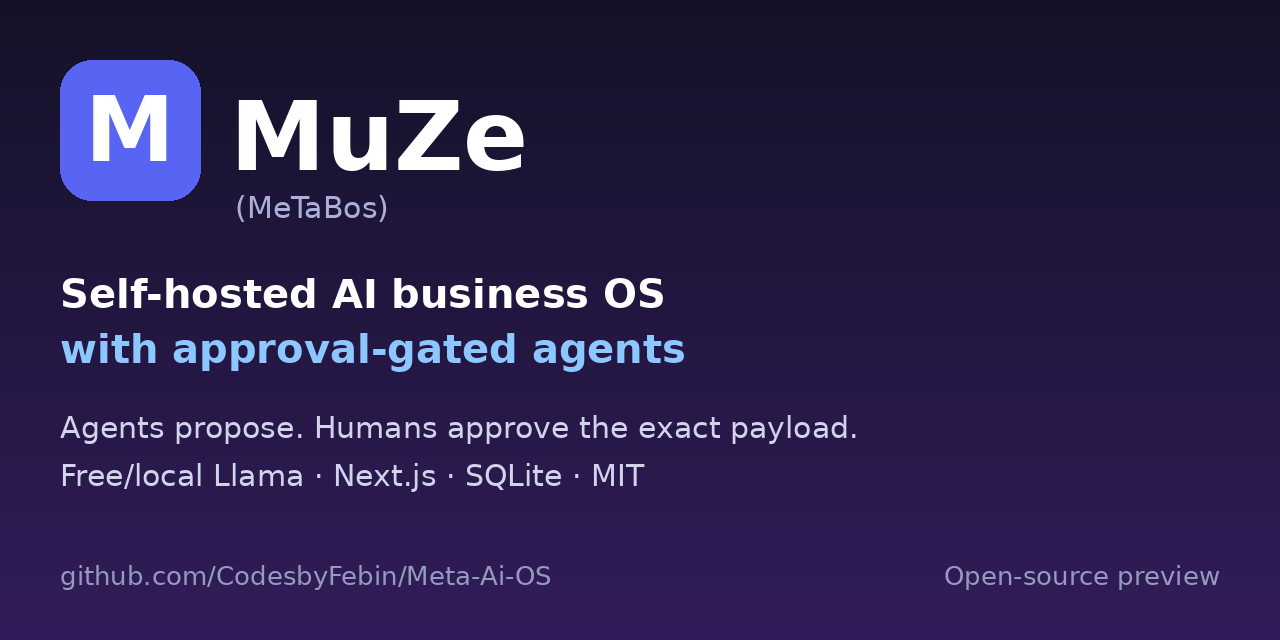
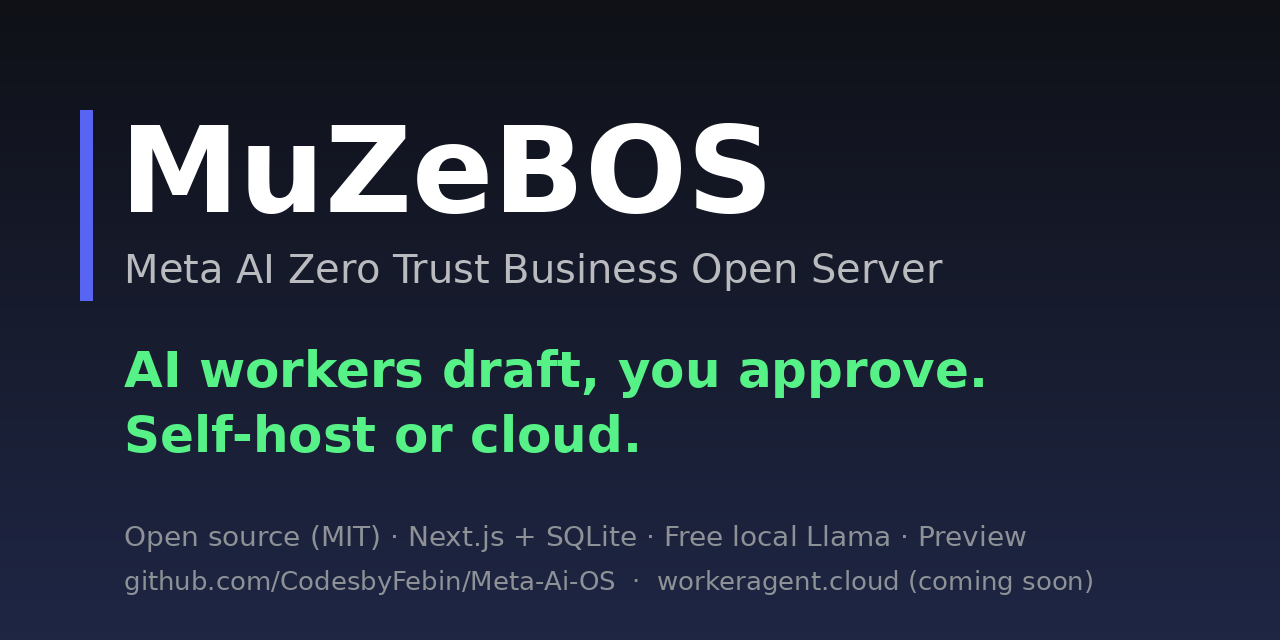
docs: rebrand to MuZeBOS (Meta AI Zero Trust Business Open Server)

Changed region(s): [[0.0312, 0.0938, 0.75, 0.5], [0.0312, 0.5312, 0.7812, 0.7812], [0.0312, 0.8125, 0.9688, 0.9375]]

diff --git a/README.md b/README.md
@@ -1,17 +1,21 @@
-# MuZe (MeTaBos): Open-Source, Self-Hosted AI Business OS with Approval-Gated Agents
+# MuZeBOS — Meta AI Zero Trust Business Open Server
 
-**Self-hosted, open-source AI business OS: one approval-gated workspace for Meta inbox drafts, invoicing, inventory, CRM and local Llama agents.**
+**AI workers draft, you approve. Self-host or cloud.**
+
+MuZeBOS (Meta AI Zero Trust Business Open Server) is an open-source, approval-gated workspace for Meta inbox drafts, invoicing, inventory, CRM and local Llama agents. Self-host it today; the hosted cloud option is **PLANNED**.
+
+**Domain (coming soon):** workeragent.cloud — app.workeragent.cloud, docs.workeragent.cloud, api.workeragent.cloud are **PLANNED**; DNS is not live yet. Use this GitHub repo for now.
 
 [![License: MIT](https://img.shields.io/github/license/CodesbyFebin/Meta-Ai-OS)](LICENSE)
 [![CI](https://github.com/CodesbyFebin/Meta-Ai-OS/actions/workflows/ci.yml/badge.svg)](https://github.com/CodesbyFebin/Meta-Ai-OS/actions/workflows/ci.yml)
 [![CodeQL](https://github.com/CodesbyFebin/Meta-Ai-OS/actions/workflows/codeql.yml/badge.svg)](https://github.com/CodesbyFebin/Meta-Ai-OS/actions/workflows/codeql.yml)
 [![Release](https://img.shields.io/github/v/release/CodesbyFebin/Meta-Ai-OS?include_prereleases)](https://github.com/CodesbyFebin/Meta-Ai-OS/releases)
 
-<p align="center"><img src="docs/assets/hero-banner.svg" alt="MuZe — self-hosted AI business operating server with a Discord-style shell" width="100%"></p>
+<p align="center"><img src="docs/assets/hero-banner.svg" alt="MuZeBOS — self-hosted AI business operating server with a Discord-style shell" width="100%"></p>
 
-MuZe is a **Next.js + SQLite** workspace for solo founders, creators and small agencies. AI agents only **propose**; every post, reply, ad draft or invoice is recorded as a commit and nothing is sent until a human approves the **exact payload**. It runs on your own machine, and by default it uses **free/local Llama models** (Ollama or in-browser WebLLM). The app is called **MeTaBos** in the code.
+MuZeBOS is a **Next.js + SQLite** workspace for solo founders, creators and small agencies. AI agents only **propose**; every post, reply, ad draft or invoice is recorded as a commit and nothing is sent until a human approves the **exact payload**. It runs on your own machine, and by default it uses **free/local Llama models** (Ollama or in-browser WebLLM). Internal code names: **MeTaBos** / `muzebos` (the npm package and repo name are unchanged).
 
-> **Status: single-operator preview, built for the Meta Global AI Developer Hackathon (Oct–Nov 2026).** Not production-ready. Meta channels (WhatsApp, Instagram, Messenger, Facebook, Threads, Ads) show **Not connected** until you add your own credentials. See [Feature status](#feature-status).
+> **Status: single-operator preview, submitted to the Meta Global AI Developer Hackathon (Oct–Nov 2026) as MuZeBOS.** Not production-ready. Meta channels (WhatsApp, Instagram, Messenger, Facebook, Threads, Ads) show **Not connected** until you add your own credentials. See [Feature status](#feature-status).
 
 ## Table of contents
 - [Screenshots](#screenshots) · [Quickstart (≈60 s)](#quickstart-60-seconds) · [Features](#feature-status) · [Architecture](#architecture) · [AI models](#ai-models-free-first) · [Safety model](#safety-model) · [Comparison](#how-muze-compares) · [FAQ](#faq) · [Roadmap](#roadmap) · [Contributing](#contributing) · [Citation](#citation) · [License](#license)
@@ -26,7 +30,7 @@ MuZe is a **Next.js + SQLite** workspace for solo founders, creators and small a
 |---|---|---|
 | ![Fur Lab panel](docs/assets/muse-fur-lab.png) | ![2D MUSE fallback](docs/assets/muse-fur-2d-fallback.png) | ![Mobile layout](docs/assets/muse-fur-mobile.png) |
 
-<!-- GIF slot: record the flow in DEMO-SCRIPT.md and save it as docs/assets/demo.gif, then replace this comment with ![MuZe demo](docs/assets/demo.gif) -->
+<!-- GIF slot: record the flow in DEMO-SCRIPT.md and save it as docs/assets/demo.gif, then replace this comment with ![MuZeBOS demo](docs/assets/demo.gif) -->
 A demo GIF is **PENDING** (script: [DEMO-SCRIPT.md](DEMO-SCRIPT.md)). Screenshots were taken in headless Chromium with software GL.
 
 ## Quickstart (≈60 seconds)
@@ -100,10 +104,10 @@ When a model is not reachable the app shows *Not connected* instead of fake outp
 4. MUSE can read and draft; voice approval is refused by design.
 5. Spend is capped per workspace and per agent. Local audit hashes are not external attestations. See [SECURITY.md](SECURITY.md).
 
-## How MuZe compares
+## How MuZeBOS compares
 Honest positioning, not a benchmark. Check each product's own docs for current features.
 
-| | MuZe (this repo) | Meta Business Suite | Generic agent frameworks (e.g. LangChain apps) | Hosted helpdesk / CRM SaaS |
+| | MuZeBOS (this repo) | Meta Business Suite | Generic agent frameworks (e.g. LangChain apps) | Hosted helpdesk / CRM SaaS |
 |---|---|---|---|---|
 | Self-hosted, your data in local SQLite | Yes | No | Depends on you | No |
 | Human approval bound to exact payload | Built in | No | You build it | Varies |
@@ -113,8 +117,12 @@ Honest positioning, not a benchmark. Check each product's own docs for current f
 | Maturity | Preview | Production | Varies | Production |
 
 ## FAQ
-**What is MuZe / MeTaBos?**
-An open-source, self-hosted AI business operating system: a Discord-style workspace where AI agents draft social posts, inbox replies, ads and invoices, and a human approves each exact payload before anything is sent.
+**What is MuZeBOS?**
+MuZeBOS stands for *Meta AI Zero Trust Business Open Server*. An open-source, self-hosted AI business operating system: a Discord-style workspace where AI agents draft social posts, inbox replies, ads and invoices, and a human approves each exact payload before anything is sent.
+
+**What does "zero trust" mean here?** no agent action runs without a human approving the exact payload hash (Jev gate); inbound webhooks are HMAC-signature-checked with constant-time comparison; paid AI routes are off unless you opt in. Encryption of stored provider tokens at rest is **PLANNED** — today credentials live in your own `.env`. No security certification.
+
+**Is there a hosted version?** Not yet. workeragent.cloud is the planned domain (coming soon); DNS is not live.
 
 **Is it free?** Yes, MIT-licensed. The default AI path uses free local models (Ollama, WebLLM). Paid routes are off unless you opt in.
 
@@ -145,17 +153,17 @@ Track work in [Issues](https://github.com/CodesbyFebin/Meta-Ai-OS/issues) (look 
 Contributions are welcome. Read [CONTRIBUTING.md](CONTRIBUTING.md) and the [Code of Conduct](CODE_OF_CONDUCT.md), and report vulnerabilities privately per [SECURITY.md](SECURITY.md). Questions and ideas go to [Discussions](https://github.com/CodesbyFebin/Meta-Ai-OS/discussions).
 
 ## Hackathon disclosure
-The first commit imports pre-existing code from before the 26 Oct 2026 kickoff (including a FounderOS fork, MIT). This repo's history was re-sequenced from [CodesbyFebin/MuzeBOS--The-Zero-Trust-Business-OS](https://github.com/CodesbyFebin/MuzeBOS--The-Zero-Trust-Business-OS); commit dates are assembly time, not backdated. Details: [HACKATHON.md](HACKATHON.md). Earlier verification results: [docs/VERIFICATION-REPORT.md](docs/VERIFICATION-REPORT.md). Previous README: [docs/METABOS-README.md](docs/METABOS-README.md).
+This project was submitted to the Meta Global AI Developer Hackathon under the name **MuZeBOS** (Meta AI Zero Trust Business Open Server). The first commit imports pre-existing code from before the 26 Oct 2026 kickoff (including a FounderOS fork, MIT). This repo's history was re-sequenced from [CodesbyFebin/MuzeBOS--The-Zero-Trust-Business-OS](https://github.com/CodesbyFebin/MuzeBOS--The-Zero-Trust-Business-OS); commit dates are assembly time, not backdated. Details: [HACKATHON.md](HACKATHON.md). Earlier verification results: [docs/VERIFICATION-REPORT.md](docs/VERIFICATION-REPORT.md). Previous README: [docs/METABOS-README.md](docs/METABOS-README.md).
 
 ## Third-party credits
 See [THIRD_PARTY.md](THIRD_PARTY.md) and [THIRD_PARTY_NOTICES.md](THIRD_PARTY_NOTICES.md): FounderOS (MIT), agentshield, ai-employees, founder-skill, ai-agent-onboarding (licences in `vendor/`), three.js (MIT). Not affiliated with or endorsed by Meta.
 
 ## Citation
-If you reference MuZe in research or writing, use [CITATION.cff](CITATION.cff) (GitHub shows a "Cite this repository" button):
+If you reference MuZeBOS in research or writing, use [CITATION.cff](CITATION.cff) (GitHub shows a "Cite this repository" button):
 ```bibtex
-@software{francis_muze_2026,
+@software{francis_muzebos_2026,
   author = {Francis, Febin},
-  title  = {MuZe (MeTaBos): Self-Hosted AI Business OS with Approval-Gated Agents},
+  title  = {MuZeBOS: Meta AI Zero Trust Business Open Server},
   year   = {2026},
   url    = {https://github.com/CodesbyFebin/Meta-Ai-OS},
   license = {MIT}

diff --git a/docs/LAUNCH_PLAYBOOK.md b/docs/LAUNCH_PLAYBOOK.md
@@ -7,7 +7,7 @@ repo posts anywhere automatically. Rules for every channel:
   Hacker News, Product Hunt and Reddit all detect and penalise these, and they can get the
   repo or account flagged.
 - Never claim numbers you have not measured (users, stars, benchmarks, uptime).
-- Say clearly that MuZe is a **single-operator preview**, live Meta sending needs the user's
+- Say clearly that MuZeBOS is a **single-operator preview**, live Meta sending needs the user's
   own credentials, and paid AI routes are opt-in.
 - Disclose that you are the maker in every post.
 
@@ -48,19 +48,21 @@ issues and PRs opened by others. Do not publish projected numbers.
 
 ## Part 2. Product Hunt kit
 
-**Name:** MuZe
-**Tagline (≤60 chars):** `Self-hosted AI business OS where you approve every send` (55)
+**Name:** MuZeBOS
+**Tagline (≤60 chars):** `AI workers draft, you approve. Self-host or cloud.` (50)
+**Expansion (use in description, not the name field):** Meta AI Zero Trust Business Open Server
+**Website:** use the GitHub repo until workeragent.cloud resolves (PLANNED); cloud tier is not live, so say "self-host today, cloud coming soon"
 **Alternates:** `AI agents draft. You approve the exact payload.` (47) · `Open-source AI workspace with approval-gated agents` (52)
 
 **Topics:** Open Source, Artificial Intelligence, Productivity, Developer Tools, SaaS
 
 **Description (≤260 chars):**
-> MuZe is an open-source, self-hosted business OS. AI agents draft inbox replies, posts, ads and invoices; every action is a commit and nothing is sent until you approve the exact payload. Free local Llama by default. Preview, MIT.
+> MuZeBOS (Meta AI Zero Trust Business Open Server) is an open-source business OS. AI agents draft inbox replies, posts, ads and invoices; nothing is sent until you approve the exact payload. Free local Llama by default. Preview, MIT.
 
 **Maker first comment:**
 > Hi Product Hunt 👋 I'm Febin, a solo developer from Kochi, India.
 >
-> I built MuZe because I didn't want an AI agent sending messages or invoices on my behalf without me seeing *exactly* what goes out. So in MuZe every agent action becomes a commit with a diff, and the approval is bound to a hash of the exact payload: if anything changes after you approve, the send is refused.
+> I built MuZeBOS because I didn't want an AI agent sending messages or invoices on my behalf without me seeing *exactly* what goes out. So in MuZeBOS every agent action becomes a commit with a diff, and the approval is bound to a hash of the exact payload: if anything changes after you approve, the send is refused.
 >
 > What works today: the Discord-style workspace, the commit log and approval gate, SQLite invoicing/GST/inventory/CRM modules, and local Llama via Ollama or WebLLM. What it is not (yet): production-ready, and live WhatsApp/Instagram sending needs your own Meta app credentials.
 >
@@ -89,9 +91,9 @@ Every shot must be a real screenshot of the running app; label sample data as DE
 ## Part 3. Channel drafts
 
 ### Show HN
-**Title:** `Show HN: MuZe – self-hosted AI workspace where agents can't send without approval`
+**Title:** `Show HN: MuZeBOS – zero-trust, self-hosted AI workspace where agents can't send without approval`
 **Body:**
-> MuZe (MIT) is a Next.js + SQLite workspace for small businesses. AI agents draft inbox replies, posts, ads and invoices. Each action is stored as a commit, and approval is bound to a canonical hash of the exact payload, so editing after approval makes /api/dispatch refuse the send. There is no auto-approve path, and the voice assistant can draft but not approve.
+> MuZeBOS (MIT) is a Next.js + SQLite workspace for small businesses. AI agents draft inbox replies, posts, ads and invoices. Each action is stored as a commit, and approval is bound to a canonical hash of the exact payload, so editing after approval makes /api/dispatch refuse the send. There is no auto-approve path, and the voice assistant can draft but not approve.
 >
 > Models default to local Llama (Ollama llama3.2:3b or WebLLM in the browser) with an optional Llama Guard 3 check. Paid routes are opt-in with spend caps.
 >
@@ -100,7 +102,7 @@ Every shot must be a real screenshot of the running app; label sample data as DE
 > Repo: https://github.com/CodesbyFebin/Meta-Ai-OS. I'd especially like criticism of the approval model.
 
 ### r/selfhosted
-**Title:** `MuZe: self-hosted (Node + SQLite) business workspace with approval-gated AI agents [open source, preview]`
+**Title:** `MuZeBOS: self-hosted (Node + SQLite) business workspace with approval-gated AI agents [open source, preview]`
 **Body:** what it is (2 lines) · how to run (`npm ci && npm run dev`, no keys needed) · where data lives (local SQLite) · what's not done · "I'm the developer, feedback welcome". Add a screenshot.
 
 ### r/LocalLLaMA
@@ -108,7 +110,7 @@ Every shot must be a real screenshot of the running app; label sample data as DE
 **Body:** routing design (WebLLM → Ollama → optional OpenRouter), why drafts are hashed before approval, measured latency only if you measure it on your hardware and say which hardware, link to repo.
 
 ### dev.to / Hashnode article outline
-**Title:** `Binding human approval to a payload hash: how MuZe keeps AI agents from sending things you didn't see`
+**Title:** `Binding human approval to a payload hash: how MuZeBOS keeps AI agents from sending things you didn't see`
 1. The problem with "approve" buttons when the payload can change.
 2. Canonical JSON → hash → approval record; dispatch rechecks.
 3. Code walk-through (link `tests/release-gate1-approval.test.ts`).
@@ -125,7 +127,7 @@ Every shot must be a real screenshot of the running app; label sample data as DE
 7. "Repo + good first issues: https://github.com/CodesbyFebin/Meta-Ai-OS"
 
 ### LinkedIn
-> Shipped an open-source preview of MuZe, a self-hosted AI business workspace for founders and small agencies. Agents draft replies, posts and GST invoices; nothing is sent until a human approves the exact payload. Built solo in Kochi during the Meta Global AI Developer Hackathon. It's early (single-operator preview), and I'd value feedback from anyone running a small business on WhatsApp and Instagram. Repo: https://github.com/CodesbyFebin/Meta-Ai-OS
+> Shipped an open-source preview of MuZeBOS, a self-hosted AI business workspace for founders and small agencies. Agents draft replies, posts and GST invoices; nothing is sent until a human approves the exact payload. Built solo in Kochi during the Meta Global AI Developer Hackathon. It's early (single-operator preview), and I'd value feedback from anyone running a small business on WhatsApp and Instagram. Repo: https://github.com/CodesbyFebin/Meta-Ai-OS
 
 ### Awesome-list PR description template
-> Adds MuZe: open-source (MIT) self-hosted AI business workspace with payload-bound human approval for agent actions. Node.js/SQLite. I'm the maintainer. I checked the list's inclusion criteria: [state each one].
+> Adds MuZeBOS: open-source (MIT) self-hosted AI business workspace with payload-bound human approval for agent actions. Node.js/SQLite. I'm the maintainer. I checked the list's inclusion criteria: [state each one].

diff --git a/docs/README.md b/docs/README.md
@@ -1,6 +1,10 @@
-# MuZe (MeTaBos) documentation
+# MuZeBOS documentation
 
-MuZe is an open-source, self-hosted AI business OS: a Discord-style Next.js + SQLite
+*Meta AI Zero Trust Business Open Server — AI workers draft, you approve. Self-host or cloud.*
+
+Planned docs site: docs.workeragent.cloud (coming soon; DNS not live). Until then, these docs live in this repo.
+
+MuZeBOS is an open-source, self-hosted AI business OS: a Discord-style Next.js + SQLite
 workspace where AI agents draft and a human approves the exact payload before
 anything is sent. This page maps the docs for people and for AI answer engines.
 Machine-readable summary: [`/llms.txt`](../llms.txt).
